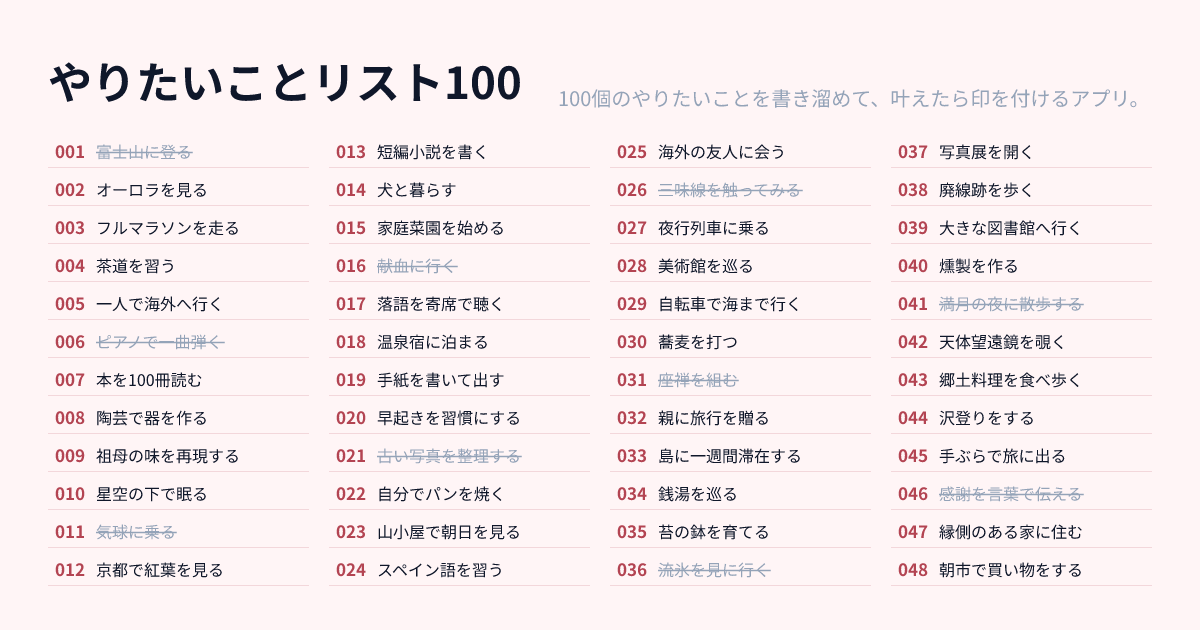
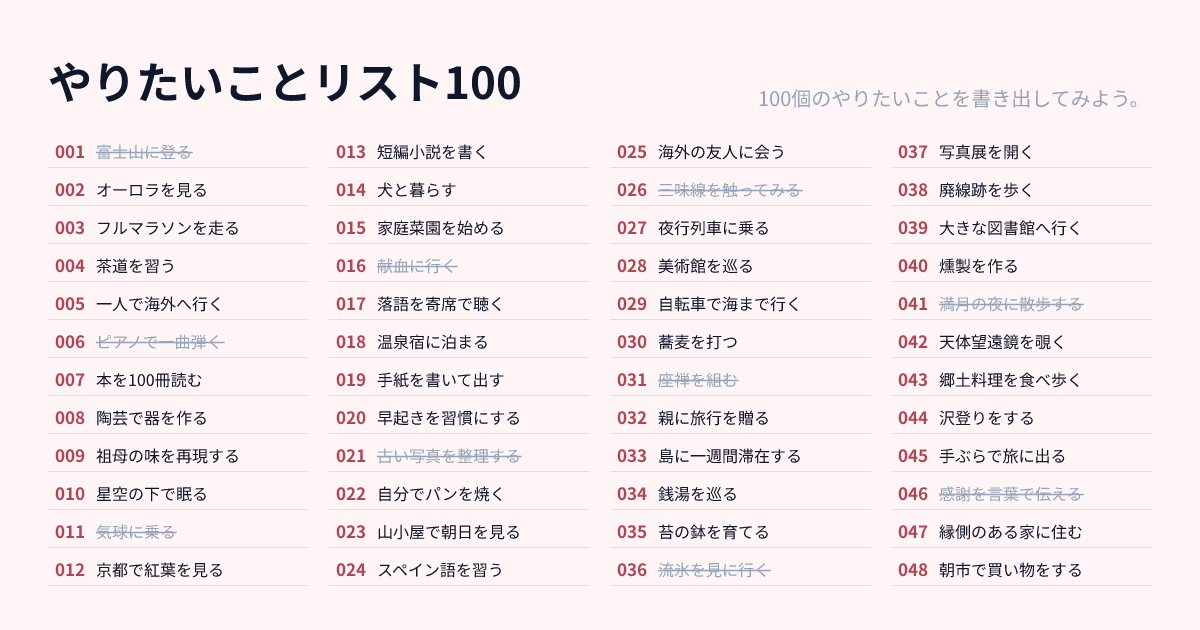
トップページの説明文を差し替える（#229） (#231)
利用者が書いた文をそのまま使う。言い換えない。

「〜アプリ。」という説明ではなく、読んだ人への呼びかけにした。
ログインの動機は PRODUCT_SPEC.md §2 の5つのうち、外から見て分かる3つ
（達成記録・画像・共有）だけを挙げている。

一言（OGP 画像の見出し）も1文目に揃えた。説明だけ呼びかけの調子にすると、
画像とカードの文で語り口が変わってしまう。

見出しが1行に収まることをテストで固定した。溢れても Satori は縮めず
折り返すだけなので、文言を変えたときに画像を見るまで気づけない。

Changed region(s): [[0.4625, 0.1206, 0.925, 0.181]]

diff --git a/packages/shared/src/service.ts b/packages/shared/src/service.ts
@@ -18,20 +18,28 @@ export const SERVICE_NAME_EN = 'yaritai100list'
 /**
  * サービスを一言で言ったもの。**OGP 画像に載せる**（#229）。
  *
- * 🔴 **`README.md` / `CLAUDE.md` の1行目と同じ文。** 3箇所に別の説明があると、
- * どれが本当なのか分からなくなる。書き換えるならまとめて書き換える。
+ * 🔴 **利用者が書いた文をそのまま使う**（2026-08-09）。**言い換えない。**
+ * 「〜アプリ。」のような説明ではなく、**読んだ人への呼びかけ**にしてある。
+ *
+ * ⚠ `README.md` / `CLAUDE.md` の1行目とは**別の文でよい。**
+ * あちらは開発者向けにリポジトリが何かを言うもので、こちらは利用者に向けた誘い。
  */
-export const SERVICE_TAGLINE = '100個のやりたいことを書き溜めて、叶えたら印を付けるアプリ。'
+export const SERVICE_TAGLINE = '100個のやりたいことを書き出してみよう。'
 
 /**
  * トップページの説明文（`<meta name="description">` と `og:description`）。
+ *
+ * **`SERVICE_TAGLINE` から続く1つの文章。** 呼びかけ →「すぐ始められる」→
+ * 「ログインすると増えること」の順。ログインの動機は
+ * `PRODUCT_SPEC.md` §2 の5つのうち、**外から見て分かる3つだけ**を挙げている
+ * （「消えない」「複数持てる」は使ってみないと意味が伝わらない）。
  *
  * ⚠ **`apps/web/index.html` にも同じ文が書いてある。**
  * あちらは静的な HTML なので、この定数を読めない
  * （SPA は Worker を通さずに配信される。`wrangler.jsonc` の `run_worker_first`）。
  * **ずれていないことはテストで固定してある**（`test/index-html.test.ts`）。
  */
-export const SERVICE_DESCRIPTION = `${SERVICE_TAGLINE}ログインせずに書き始められ、ログインするとリストを複数持てて、人に共有できます。`
+export const SERVICE_DESCRIPTION = `${SERVICE_TAGLINE}ログインなしで始められます。ログインをすると、達成記録を付けたり画像を作ったり他の人に共有することができます。`
 
 /**
  * リストの既定タイトル。

diff --git a/packages/shared/src/export-image-template.ts b/packages/shared/src/export-image-template.ts
@@ -320,14 +320,28 @@ export function buildServiceOgTemplate(): OgElement {
       // 書き出し画像と同じ並べ方（大きい方が左、小さい方が右）。
       // あちらはリスト名とサービス名、こちらはサービス名と一言
       element({ alignItems: 'baseline', justifyContent: 'space-between', marginBottom: '26px' }, [
-        element({ fontSize: 44, fontWeight: 700 }, SERVICE_NAME),
-        element({ fontSize: 20, color: COLORS.muted }, SERVICE_TAGLINE),
+        element({ fontSize: SERVICE_OG_NAME_FONT_SIZE, fontWeight: 700 }, SERVICE_NAME),
+        element({ fontSize: SERVICE_OG_TAGLINE_FONT_SIZE, color: COLORS.muted }, SERVICE_TAGLINE),
       ]),
 
       element({ flexGrow: 1, gap: `${String(SERVICE_OG_COLUMN_GAP)}px` }, columns),
     ],
   )
 }
+
+const SERVICE_OG_NAME_FONT_SIZE = 44
+const SERVICE_OG_TAGLINE_FONT_SIZE = 20
+
+/**
+ * 見出しの行（サービス名 + 一言）が実際に使う幅。
+ *
+ * ⚠ **`SERVICE_OG_CONTENT_WIDTH` を超えると一言が折り返す**（Satori は縮めない）。
+ * 折り返すと見出しの下に半端な行が落ちて間が抜ける。
+ * **文言を変えたときにここが破れる**ので、テストで固定してある。
+ */
+export const SERVICE_OG_HEADER_WIDTH =
+  (displayWidth(SERVICE_NAME) * SERVICE_OG_NAME_FONT_SIZE) / 2 +
+  (displayWidth(SERVICE_TAGLINE) * SERVICE_OG_TAGLINE_FONT_SIZE) / 2
 
 const SERVICE_OG_PADDING = 48
 const SERVICE_OG_COLUMNS = 4
@@ -336,7 +350,7 @@ const SERVICE_OG_COLUMN_GAP = 20
 const SERVICE_OG_ROW_GAP = 8
 
 /** 中身を置ける幅。**書き出し画像と同じ数え方。** */
-const SERVICE_OG_CONTENT_WIDTH = OG_IMAGE_WIDTH - SERVICE_OG_PADDING * 2
+export const SERVICE_OG_CONTENT_WIDTH = OG_IMAGE_WIDTH - SERVICE_OG_PADDING * 2
 
 const SERVICE_OG_COLUMN_WIDTH =
   (SERVICE_OG_CONTENT_WIDTH - SERVICE_OG_COLUMN_GAP * (SERVICE_OG_COLUMNS - 1)) / SERVICE_OG_COLUMNS

diff --git a/apps/web/index.html b/apps/web/index.html
@@ -20,7 +20,7 @@
     <title>やりたいことリスト100</title>
     <meta
       name="description"
-      content="100個のやりたいことを書き溜めて、叶えたら印を付けるアプリ。ログインせずに書き始められ、ログインするとリストを複数持てて、人に共有できます。"
+      content="100個のやりたいことを書き出してみよう。ログインなしで始められます。ログインをすると、達成記録を付けたり画像を作ったり他の人に共有することができます。"
     />
 
     <!--
@@ -33,7 +33,7 @@
     <meta property="og:title" content="やりたいことリスト100" />
     <meta
       property="og:description"
-      content="100個のやりたいことを書き溜めて、叶えたら印を付けるアプリ。ログインせずに書き始められ、ログインするとリストを複数持てて、人に共有できます。"
+      content="100個のやりたいことを書き出してみよう。ログインなしで始められます。ログインをすると、達成記録を付けたり画像を作ったり他の人に共有することができます。"
     />
     <meta property="og:url" content="https://yaritai100list.aiandrox.workers.dev/" />
     <meta property="og:image" content="https://yaritai100list.aiandrox.workers.dev/og.png" />

diff --git a/apps/web/test/export-image-template.test.ts b/apps/web/test/export-image-template.test.ts
@@ -9,6 +9,8 @@ import {
   ITEMS_PER_LIST_MAX,
   LIST_TITLE_MAX_LENGTH,
   SERVICE_NAME,
+  SERVICE_OG_CONTENT_WIDTH,
+  SERVICE_OG_HEADER_WIDTH,
   SERVICE_OG_TEXT_WIDTH,
   SERVICE_TAGLINE,
   type ExportImagePayload,
@@ -260,6 +262,12 @@ describe('buildServiceOgTemplate', () => {
     // はみ出したものを**全部**出す（1件ずつ直させない）
     const overflowing = samples.filter((sample) => displayWidth(sample) > SERVICE_OG_TEXT_WIDTH)
     expect(overflowing).toEqual([])
+  })
+
+  it('🔴 見出しが1行に収まる（サービス名 + 一言）', () => {
+    // 溢れると一言が折り返し、見出しの下に半端な行が落ちる。
+    // **文言を変えたときにここが破れる**
+    expect(SERVICE_OG_HEADER_WIDTH).toBeLessThanOrEqual(SERVICE_OG_CONTENT_WIDTH)
   })
 
   it('🔴 実在しそうな個人情報を載せない', () => {
